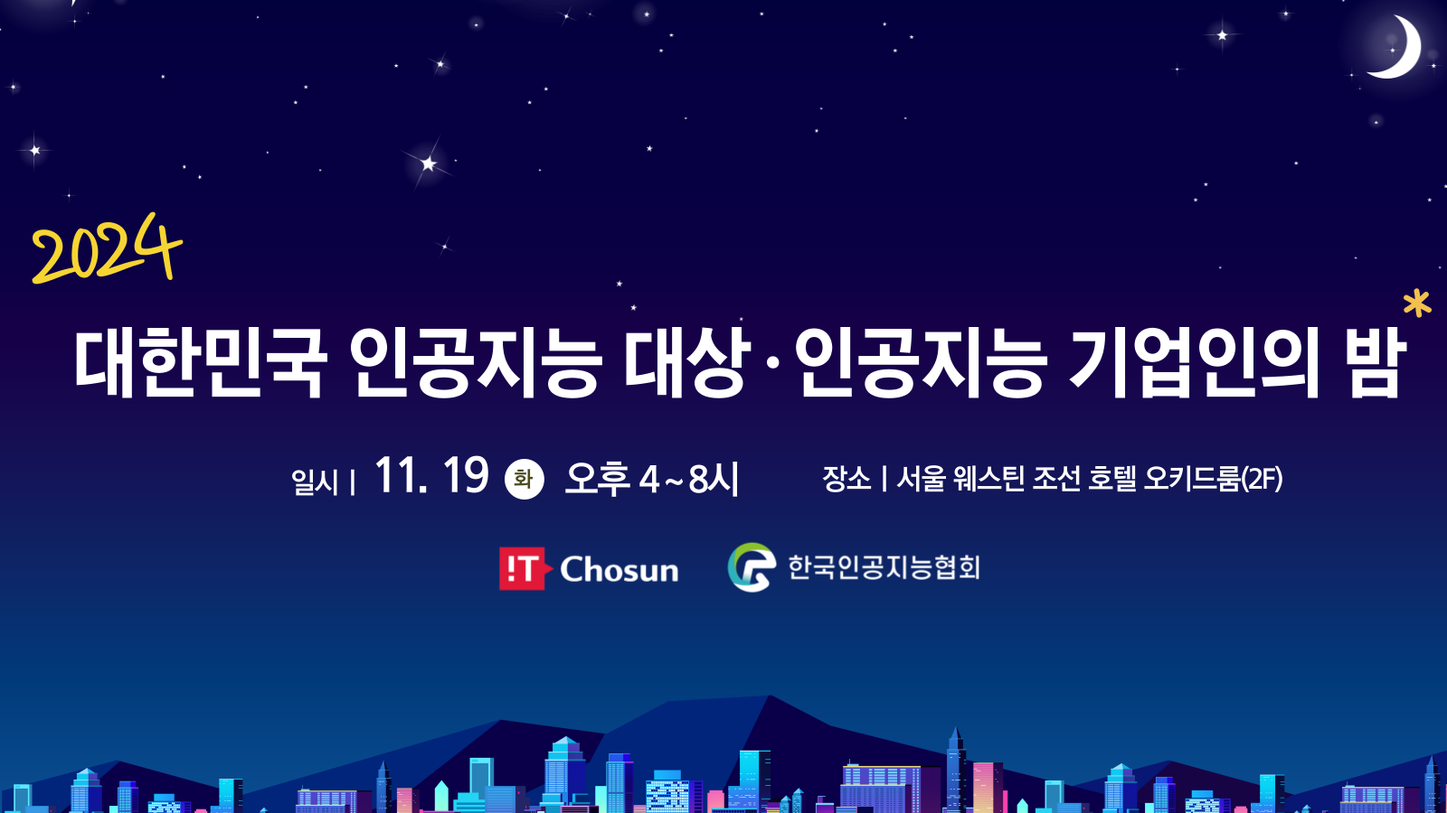
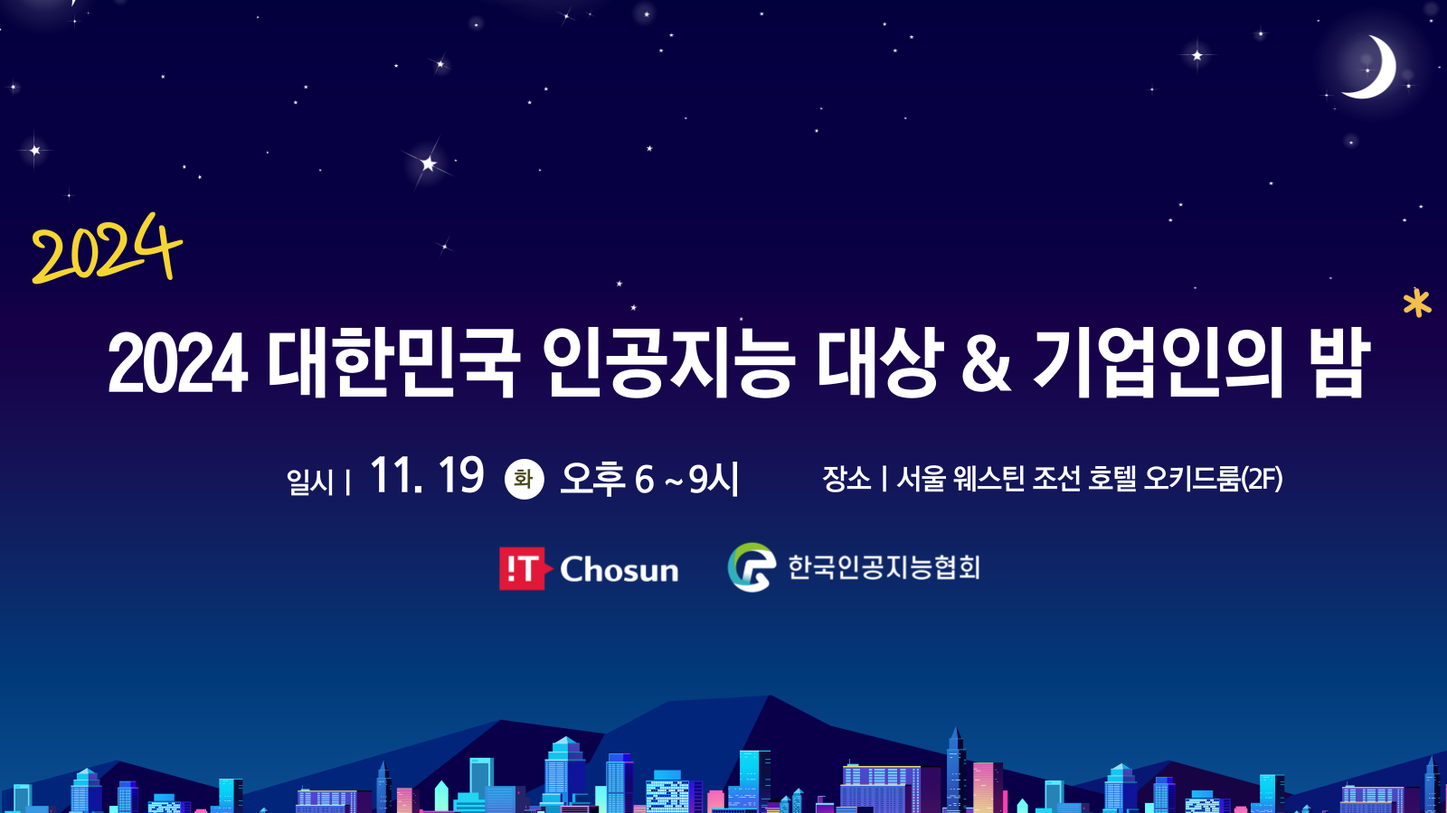
명칭통일

diff --git a/contact.html b/contact.html
@@ -3,17 +3,19 @@
 
 <head>
     <meta charset="UTF-8">
-    <meta name="description" content="2024 대한민국 인공지능 대상 및 인공지능 기업인의 밤 행사 안내">
+    <meta name="description" content="대한민국 인공지능대상은 2019년 처음 시작되어, AI 분야에서 뛰어난 성과를 이룬 기업, 학교, 기관, 지방자치단체를 선정해 시상해왔습니다.">
     <meta http-equiv="X-UA-Compatible" content="IE=edge">
     <meta name="viewport" content="width=device-width, initial-scale=1, shrink-to-fit=no">
     <link rel="preconnect" href="https://fonts.googleapis.com">
     <link rel="preconnect" href="https://fonts.gstatic.com" crossorigin>
-    <link href="https://fonts.googleapis.com/css2?family=Do+Hyeon&family=Gowun+Dodum&family=Nanum+Gothic&family=Nanum+Gothic+Coding&family=Noto+Sans+KR:wght@100..900&display=swap" rel="stylesheet">
+    <link
+        href="https://fonts.googleapis.com/css2?family=Do+Hyeon&family=Gowun+Dodum&family=Nanum+Gothic&family=Nanum+Gothic+Coding&family=Noto+Sans+KR:wght@100..900&display=swap"
+        rel="stylesheet">
     <!-- The above 4 meta tags *must* come first in the head; any other head content must come *after* these tags -->
 
     <!-- Title  -->
-    <title>대한민국 인공지능 대상·인공지능 기업인의 밤</title>
-    <meta property="og:title" content="대한민국 인공지능 대상·인공지능 기업인의 밤" />
+    <title>2024 대한민국 인공지능대상 & 기업인의 밤</title>
+    <meta property="og:title" content="2024 대한민국 인공지능대상 & 기업인의 밤" />
     <meta property="og:type" content="대한민국 인공지능" />
     <meta property="og:image" content="https://github.com/nightAI2024/nightAI2024/blob/main/ogimage.png?raw=true" />
 
@@ -57,10 +59,10 @@
                 <div class="row h-100 align-items-center">
                     <div class="col-12" style="display: flex; flex-direction: row-reverse;">
                         <div class="main-menu">
-                            <nav class="navbar navbar-expand-lg" >
+                            <nav class="navbar navbar-expand-lg">
                                 <button class="navbar-toggler" type="button" data-toggle="collapse"
-                                        data-target="#gazetteMenu" aria-controls="gazetteMenu" aria-expanded="false"
-                                        aria-label="Toggle navigation">Menu</button>
+                                    data-target="#gazetteMenu" aria-controls="gazetteMenu" aria-expanded="false"
+                                    aria-label="Toggle navigation">Menu</button>
                                 <div class="collapse navbar-collapse" id="gazetteMenu">
                                     <ul class="navbar-nav mr-auto">
                                         <li class="nav-item" style="margin-right: 15px;">
@@ -119,26 +121,28 @@
                             <div class="contact-address-info mb-50">
                                 <!-- * 카카오맵 - 지도퍼가기 -->
                                 <!-- 1. 지도 노드 -->
-                                <div id="daumRoughmapContainer1724131877990" class="root_daum_roughmap root_daum_roughmap_landing"></div>
+                                <div id="daumRoughmapContainer1724131877990"
+                                    class="root_daum_roughmap root_daum_roughmap_landing"></div>
 
                                 <!--
                                     2. 설치 스크립트
                                     * 지도 퍼가기 서비스를 2개 이상 넣을 경우, 설치 스크립트는 하나만 삽입합니다.
                                 -->
-                                <script charset="UTF-8" class="daum_roughmap_loader_script" src="https://ssl.daumcdn.net/dmaps/map_js_init/roughmapLoader.js"></script>
+                                <script charset="UTF-8" class="daum_roughmap_loader_script"
+                                    src="https://ssl.daumcdn.net/dmaps/map_js_init/roughmapLoader.js"></script>
 
                                 <!-- 3. 실행 스크립트 -->
                                 <script charset="UTF-8">
                                     new daum.roughmap.Lander({
-                                        "timestamp" : "1724131877990",
-                                        "key" : "2ke6s",
-                                        "mapWidth" : "1100",
-                                        "mapHeight" : "600"
+                                        "timestamp": "1724131877990",
+                                        "key": "2ke6s",
+                                        "mapWidth": "1100",
+                                        "mapHeight": "600"
                                     }).render();
                                 </script>
                                 <p>▪ Address. 서울특별시 중구 세종대로135 코리아나호텔 9층 912호
 
-                                    <br> ▪ Tel. 070-4285-0546  <br> ▪ Fax. 070-4285-0547 <br>
+                                    <br> ▪ Tel. 070-4285-0546 <br> ▪ Fax. 070-4285-0547 <br>
                                     ▪ E-mail. eventit@chosunbiz.com
                                 </p>
                             </div>
@@ -150,16 +154,35 @@
                     <div class="col-12 col-md-12">
                         <div class="gazette-heading">
                             <h4 class="font-bold">인공지능 기업인의 밤</h4>
-                            <div style="font:normal normal 400 12px/normal dotum, sans-serif; width:1100px; height:632px; color:#333; position:relative"><div style="height: 600px;"><a href="https://map.kakao.com/?urlX=486970.625&amp;urlY=1124571.25&amp;name=%EC%84%9C%EC%9A%B8%ED%8A%B9%EB%B3%84%EC%8B%9C%20%EB%A7%88%ED%8F%AC%EA%B5%AC%20%EB%B0%B1%EB%B2%94%EB%A1%9C%2088&amp;map_type=TYPE_MAP&amp;from=roughmap" target="_blank"><img class="map" src="http://t1.daumcdn.net/roughmap/imgmap/3ff044178f4f2151baf7016fc0c21d380e2933461b4f13ea02f6452759ebdadb" width="1098px" height="598px" style="border:1px solid #ccc;"></a></div><div style="overflow: hidden; padding: 7px 11px; border: 1px solid rgba(0, 0, 0, 0.1); border-radius: 0px 0px 2px 2px; background-color: rgb(249, 249, 249);"><a href="https://map.kakao.com" target="_blank" style="float: left;"><img src="//t1.daumcdn.net/localimg/localimages/07/2018/pc/common/logo_kakaomap.png" width="72" height="16" alt="카카오맵" style="display:block;width:72px;height:16px"></a><div style="float: right; position: relative; top: 1px; font-size: 11px;"><a target="_blank" href="https://map.kakao.com/?from=roughmap&amp;eName=%EC%84%9C%EC%9A%B8%ED%8A%B9%EB%B3%84%EC%8B%9C%20%EB%A7%88%ED%8F%AC%EA%B5%AC%20%EB%B0%B1%EB%B2%94%EB%A1%9C%2088&amp;eX=486970.625&amp;eY=1124571.25" style="float:left;height:15px;padding-top:1px;line-height:15px;color:#000;text-decoration: none;">길찾기</a></div></div></div>
-                                <p>▪ Address. 서울특별시 마포구 백범로 88 (대흥동) 경총회관 3층
-
-                                    <br> ▪ Tel. 02-713-4800  <br> ▪ Fax. 02-6971-8901<br>
-                                    ▪ E-mail. info@koraia.org
-                                </p>
+                            <div
+                                style="font:normal normal 400 12px/normal dotum, sans-serif; width:1100px; height:632px; color:#333; position:relative">
+                                <div style="height: 600px;"><a
+                                        href="https://map.kakao.com/?urlX=486970.625&amp;urlY=1124571.25&amp;name=%EC%84%9C%EC%9A%B8%ED%8A%B9%EB%B3%84%EC%8B%9C%20%EB%A7%88%ED%8F%AC%EA%B5%AC%20%EB%B0%B1%EB%B2%94%EB%A1%9C%2088&amp;map_type=TYPE_MAP&amp;from=roughmap"
+                                        target="_blank"><img class="map"
+                                            src="http://t1.daumcdn.net/roughmap/imgmap/3ff044178f4f2151baf7016fc0c21d380e2933461b4f13ea02f6452759ebdadb"
+                                            width="1098px" height="598px" style="border:1px solid #ccc;"></a></div>
+                                <div
+                                    style="overflow: hidden; padding: 7px 11px; border: 1px solid rgba(0, 0, 0, 0.1); border-radius: 0px 0px 2px 2px; background-color: rgb(249, 249, 249);">
+                                    <a href="https://map.kakao.com" target="_blank" style="float: left;"><img
+                                            src="//t1.daumcdn.net/localimg/localimages/07/2018/pc/common/logo_kakaomap.png"
+                                            width="72" height="16" alt="카카오맵"
+                                            style="display:block;width:72px;height:16px"></a>
+                                    <div style="float: right; position: relative; top: 1px; font-size: 11px;"><a
+                                            target="_blank"
+                                            href="https://map.kakao.com/?from=roughmap&amp;eName=%EC%84%9C%EC%9A%B8%ED%8A%B9%EB%B3%84%EC%8B%9C%20%EB%A7%88%ED%8F%AC%EA%B5%AC%20%EB%B0%B1%EB%B2%94%EB%A1%9C%2088&amp;eX=486970.625&amp;eY=1124571.25"
+                                            style="float:left;height:15px;padding-top:1px;line-height:15px;color:#000;text-decoration: none;">길찾기</a>
+                                    </div>
+                                </div>
                             </div>
+                            <p>▪ Address. 서울특별시 마포구 백범로 88 (대흥동) 경총회관 3층
+
+                                <br> ▪ Tel. 02-713-4800 <br> ▪ Fax. 02-6971-8901<br>
+                                ▪ E-mail. info@koraia.org
+                            </p>
                         </div>
                     </div>
                 </div>
+            </div>
             </div>
         </section>
     </section>
@@ -176,7 +199,7 @@
                             <div class="footer-widget-title">
                                 <h4 class="font-pt">대한민국 인공지능대상 · 인공지능 기업인의 밤</h4>
                             </div>
-                            <ul class="footer-widget-menu" >
+                            <ul class="footer-widget-menu">
                                 <li><a href="Introduce.html">소개</a></li>
                                 <li><a href="Guidelines.html">참가안내</a></li>
                                 <li><a href="Prize.html">수상혜택</a></li>
@@ -202,8 +225,8 @@
                             <p><!-- Link back to Colorlib can't be removed. Template is licensed under CC BY 3.0. -->
                                 Copyright &copy;
                                 <script>document.write(new Date().getFullYear());</script> All rights reserved <br><a
-                                        href="#" target="_blank">대한민국 인공지능대상 운영사무국</a> & <a
-                                        href="https://koraia.org" target="_blank">(사)한국인공지능협회</a>
+                                    href="#" target="_blank">대한민국 인공지능대상 운영사무국</a> & <a href="https://koraia.org"
+                                    target="_blank">(사)한국인공지능협회</a>
                             </p>
                         </div>
                     </div>
@@ -228,7 +251,7 @@
     <script async src="https://www.googletagmanager.com/gtag/js?id=G-SQBSQEY89L"></script>
     <script>
         window.dataLayer = window.dataLayer || [];
-        function gtag(){dataLayer.push(arguments);}
+        function gtag() { dataLayer.push(arguments); }
         gtag('js', new Date());
 
         gtag('config', 'G-SQBSQEY89L');

diff --git a/Introduce.html b/Introduce.html
@@ -3,7 +3,7 @@
 
 <head>
     <meta charset="UTF-8">
-    <meta name="description" content="2024 대한민국 인공지능 대상 및 인공지능 기업인의 밤 행사 안내">
+    <meta name="description" content="대한민국 인공지능대상은 2019년 처음 시작되어, AI 분야에서 뛰어난 성과를 이룬 기업, 학교, 기관, 지방자치단체를 선정해 시상해왔습니다.">
     <meta http-equiv="X-UA-Compatible" content="IE=edge">
     <meta name="viewport" content="width=device-width, initial-scale=1, shrink-to-fit=no">
     <link rel="preconnect" href="https://fonts.googleapis.com">
@@ -15,8 +15,8 @@
 
 
     <!-- Title  -->
-    <title>대한민국 인공지능 대상·인공지능 기업인의 밤</title>
-    <meta property="og:title" content="대한민국 인공지능 대상·인공지능 기업인의 밤" />
+    <title>2024 대한민국 인공지능대상 & 기업인의 밤</title>
+    <meta property="og:title" content="2024 대한민국 인공지능대상 & 기업인의 밤" />
     <meta property="og:type" content="대한민국 인공지능" />
     <meta property="og:image" content="https://github.com/nightAI2024/nightAI2024/blob/main/ogimage.png?raw=true" />
 
@@ -104,7 +104,7 @@
                         <div class="single-post-title-content">
                             <!-- Post Tag -->
                             <div class="gazette-post-tag">
-                                <a href="#" style="background-color: #7c1ea2">대한민국 인공지능 대상 · 인공지능 기업인의 밤</a>
+                                <a href="#" style="background-color: #7c1ea2">2024 대한민국 인공지능대상 & 기업인의 밤</a>
                             </div>
                             <h2 class="font-pt">소개</h2>
                             <p>　</p>
@@ -146,8 +146,8 @@
                             </div>
                             <h2 class="font-pt">소개</h2>
                             <br>
-                            <p>조선미디어그룹의 테크전문 매체 IT조선이 <2024 대한민국 인공지능 대상 · 인공지능 기업인의 밤>을 개최합니다.</p>
-                            <p>인공지능(AI) 보급, 확산 및 진흥을 위해 열리는 <2024 대한민국 인공지능 대상 · 인공지능 기업인의 밤>에는 ‘과학기술정보통신부 장관상’,
+                            <p>조선미디어그룹의 테크전문 매체 IT조선이 <2024 대한민국 인공지능대상 & 기업인의 밤>을 개최합니다.</p>
+                            <p>인공지능(AI) 보급, 확산 및 진흥을 위해 열리는 <2024 대한민국 인공지능대상 & 기업인의 밤>에는 ‘과학기술정보통신부 장관상’,
                                     ‘산업통상자원부 장관상’, ‘중소벤처기업부 장관상’
                                     ‘한국지능정보사회진흥 원장상’, ‘정보통신산업진흥원 원장상’, ‘정보통신기획평가원 원장상’을 각 기관과 함께 선정, 시상 합니다.
 
@@ -159,7 +159,7 @@
 
                             </p>
                             <p>
-                                <2024 대한민국 인공지능 대상 · 인공지능 기업인의 밤>은 전 세계 AI 시장 및 기술 동향 조사를 바탕으로 AI 전문가 심사위원단이 수상자를 선정합니다.
+                                <2024 대한민국 인공지능대상 & 기업인의 밤>은 전 세계 AI 시장 및 기술 동향 조사를 바탕으로 AI 전문가 심사위원단이 수상자를 선정합니다.
 
                             </p>
 
@@ -196,7 +196,7 @@
                     <div class="col-12">
                         <div class="single-footer-widget">
                             <div class="footer-widget-title">
-                                <h4 class="font-pt">대한민국 인공지능대상 · 인공지능 기업인의 밤</h4>
+                                <h4 class="font-pt">2024 대한민국 인공지능대상 & 기업인의 밤</h4>
                             </div>
                             <ul class="footer-widget-menu">
                                 <li><a href="Introduce.html">소개</a></li>

diff --git a/index.html b/index.html
@@ -3,7 +3,7 @@
 
 <head>
     <meta charset="UTF-8">
-    <meta name="description" content="2024 대한민국 인공지능 대상 및 인공지능 기업인의 밤 행사 안내">
+    <meta name="description" content="대한민국 인공지능대상은 2019년 처음 시작되어, AI 분야에서 뛰어난 성과를 이룬 기업, 학교, 기관, 지방자치단체를 선정해 시상해왔습니다.">
     <meta http-equiv="X-UA-Compatible" content="IE=edge">
     <meta name="viewport" content="width=device-width, initial-scale=1, shrink-to-fit=no">
     <link rel="preconnect" href="https://fonts.googleapis.com">
@@ -14,9 +14,9 @@
     <!-- The above 4 meta tags *must* come first in the head; any other head content must come *after* these tags -->
 
     <!-- Title  -->
-    <title>대한민국 인공지능 대상·인공지능 기업인의 밤</title>
-    <meta property="og:title" content="대한민국 인공지능 대상·인공지능 기업인의 밤" />
-    <meta property="og:type" content="대한민국 인공지능" />
+    <title>2024 대한민국 인공지능 대상 & 기업인의 밤</title>
+    <meta property="og:title" content="2024 대한민국 인공지능 대상 & 기업인의 밤" />
+    <meta property="og:type" content="2024 대한민국 인공지능 대상 & 기업인의 밤" />
     <meta property="og:image" content="https://github.com/nightAI2024/nightAI2024/blob/main/ogimage.png?raw=true" />
 
     <!-- Favicon  -->
@@ -175,14 +175,14 @@
 
 
     <div class="container my-5">
-        <h1>제 6회, 2024 대한민국 인공지능 대상 · 인공지능 기업인의 밤</h1><br>
-        <div class="card p-4 mb-4" style="background-color: rgba(224,223,223,0.15)">
-            <p class="mb-0" style="font-size: 1.2em;">
+        <h1>제 6회, 2024 대한민국 인공지능대상 & 기업인의 밤</h1><br>
+        <div class="card p-4 mb-4" style="background-color: rgba(224, 223, 223, 0.066)">
+            <p class="mb-0" style="font-size: 1.25em;">
                 ‘인공지능(AI) 기술의 급속한 발전은 산업 전반에 걸쳐 혁신을 이끌며, 새로운 시대를 열고 있습니다.’<br><br>
                 이제 AI는 특정 전문가들만의 전유물이 아니라, 누구나 자신의 분야에서 활용할 수 있는 필수 기술로 자리매김했습니다. <br>기존 산업의 혁신과 더불어 AI를 통한 미래의 설계는 더욱
                 가속화되고 있으며, 그 영향력은 더욱 커져가고 있습니다.
                 <br><br>
-                이러한 흐름에 맞춰 조선미디어그룹의 테크전문 미디어 IT조선은 대한민국이 AI 강국으로 도약하는 데 기여하기 위해 '2024 대한민국 인공지능 대상 · 인공지능 기업인의 밤'을
+                이러한 흐름에 맞춰 조선미디어그룹의 테크전문 미디어 IT조선은 대한민국이 AI 강국으로 도약하는 데 기여하기 위해 '2024 대한민국 인공지능대상 & 기업인의 밤'을
                 개최합니다. 올해는 특히 한국인공지능협회와 함께 공동으로 주최하여, 인공지능 분야를 대표하는 기관 및 기업들이 한 자리에 모여 소통하는 뜻깊은 자리가 될 수 있도록 인공지능 기업인의
                 밤으로 확대 진행합니다.<br>
                 <br>
@@ -397,7 +397,7 @@
                     <div class="col-12">
                         <div class="single-footer-widget">
                             <div class="footer-widget-title">
-                                <h4 class="font-pt">대한민국 인공지능대상 · 인공지능 기업인의 밤</h4>
+                                <h4 class="font-pt">2024 대한민국 인공지능대상 & 기업인의 밤</h4>
                             </div>
                             <ul class="footer-widget-menu">
                                 <li><a href="Introduce.html">소개</a></li>

diff --git a/history.html b/history.html
@@ -3,7 +3,7 @@
 
 <head>
     <meta charset="UTF-8">
-    <meta name="description" content="2024 대한민국 인공지능 대상 및 인공지능 기업인의 밤 행사 안내">
+    <meta name="description" content="대한민국 인공지능대상은 2019년 처음 시작되어, AI 분야에서 뛰어난 성과를 이룬 기업, 학교, 기관, 지방자치단체를 선정해 시상해왔습니다.">
     <meta http-equiv="X-UA-Compatible" content="IE=edge">
     <meta name="viewport" content="width=device-width, initial-scale=1, shrink-to-fit=no">
     <link rel="preconnect" href="https://fonts.googleapis.com">
@@ -15,8 +15,8 @@
 
 
     <!-- Title  -->
-    <title>대한민국 인공지능 대상·인공지능 기업인의 밤</title>
-    <meta property="og:title" content="대한민국 인공지능 대상·인공지능 기업인의 밤" />
+    <title>2024 대한민국 인공지능대상 & 기업인의 밤</title>
+    <meta property="og:title" content="2024 대한민국 인공지능대상 & 기업인의 밤" />
     <meta property="og:type" content="대한민국 인공지능" />
     <meta property="og:image" content="https://github.com/nightAI2024/nightAI2024/blob/main/ogimage.png?raw=true" />
 
@@ -158,7 +158,8 @@
                                     <tr></tr>
                                     <td style="border: 1px solid black; padding: 8px; text-align: center;" rowspan="2">
                                         <br><img src="img/core-img/prize24_2.jpg"
-                                            style="width: 147px; height: 85px;"><br><br>▪ 정보통신산업진흥원 원장상<br>　</td>
+                                            style="width: 147px; height: 85px;"><br><br>▪ 정보통신산업진흥원 원장상<br>　
+                                    </td>
                                     <td style="border: 1px solid black; padding: 8px; text-align: center;">메가존클라우드
                                     </td>
                                     </tr>
@@ -525,7 +526,7 @@
                     <div class="col-12">
                         <div class="single-footer-widget">
                             <div class="footer-widget-title">
-                                <h4 class="font-pt">대한민국 인공지능대상 · 인공지능 기업인의 밤</h4>
+                                <h4 class="font-pt">2024 대한민국 인공지능대상 & 기업인의 밤</h4>
                             </div>
                             <ul class="footer-widget-menu">
                                 <li><a href="Introduce.html">소개</a></li>

diff --git a/Guidelines.html b/Guidelines.html
@@ -3,7 +3,7 @@
 
 <head>
     <meta charset="UTF-8">
-    <meta name="description" content="2024 대한민국 인공지능 대상 및 인공지능 기업인의 밤 행사 안내">
+    <meta name="description" content="대한민국 인공지능대상은 2019년 처음 시작되어, AI 분야에서 뛰어난 성과를 이룬 기업, 학교, 기관, 지방자치단체를 선정해 시상해왔습니다.">
     <meta http-equiv="X-UA-Compatible" content="IE=edge">
     <meta name="viewport" content="width=device-width, initial-scale=1, shrink-to-fit=no">
     <link rel="preconnect" href="https://fonts.googleapis.com">
@@ -15,8 +15,8 @@
 
 
     <!-- Title  -->
-    <title>대한민국 인공지능 대상·인공지능 기업인의 밤</title>
-    <meta property="og:title" content="대한민국 인공지능 대상·인공지능 기업인의 밤" />
+    <title>2024 대한민국 인공지능대상 & 기업인의 밤</title>
+    <meta property="og:title" content="2024 대한민국 인공지능대상 & 기업인의 밤" />
     <meta property="og:type" content="대한민국 인공지능" />
     <meta property="og:image" content="https://github.com/nightAI2024/nightAI2024/blob/main/ogimage.png?raw=true" />
 
@@ -104,7 +104,7 @@
                         <div class="single-post-title-content">
                             <!-- Post Tag -->
                             <div class="gazette-post-tag">
-                                <a href="#" style="background-color: #7c1ea2">대한민국 인공지능 대상 · 인공지능 기업인의 밤</a>
+                                <a href="#" style="background-color: #7c1ea2">2024 대한민국 인공지능대상 & 기업인의 밤</a>
                             </div>
                             <h2 class="font-pt">참가안내</h2>
                             <p>　</p>
@@ -446,7 +446,7 @@
                     <div class="col-12">
                         <div class="single-footer-widget">
                             <div class="footer-widget-title">
-                                <h4 class="font-pt">대한민국 인공지능대상 · 인공지능 기업인의 밤</h4>
+                                <h4 class="font-pt">2024 대한민국 인공지능대상 & 기업인의 밤</h4>
                             </div>
                             <ul class="footer-widget-menu">
                                 <li><a href="Introduce.html">소개</a></li>

diff --git a/Prize.html b/Prize.html
@@ -3,7 +3,7 @@
 
 <head>
     <meta charset="UTF-8">
-    <meta name="description" content="2024 대한민국 인공지능 대상 및 인공지능 기업인의 밤 행사 안내">
+    <meta name="description" content="대한민국 인공지능대상은 2019년 처음 시작되어, AI 분야에서 뛰어난 성과를 이룬 기업, 학교, 기관, 지방자치단체를 선정해 시상해왔습니다.">
     <meta http-equiv="X-UA-Compatible" content="IE=edge">
     <meta name="viewport" content="width=device-width, initial-scale=1, shrink-to-fit=no">
     <link rel="preconnect" href="https://fonts.googleapis.com">
@@ -15,8 +15,8 @@
 
 
     <!-- Title  -->
-    <title>대한민국 인공지능 대상·인공지능 기업인의 밤</title>
-    <meta property="og:title" content="대한민국 인공지능 대상·인공지능 기업인의 밤" />
+    <title>2024 대한민국 인공지능대상 & 기업인의 밤</title>
+    <meta property="og:title" content="2024 대한민국 인공지능대상 & 기업인의 밤" />
     <meta property="og:type" content="대한민국 인공지능" />
     <meta property="og:image" content="https://github.com/nightAI2024/nightAI2024/blob/main/ogimage.png?raw=true" />
 
@@ -104,7 +104,7 @@
                         <div class="single-post-title-content">
                             <!-- Post Tag -->
                             <div class="gazette-post-tag">
-                                <a href="#" style="background-color: #7c1ea2">대한민국 인공지능 대상 · 인공지능 기업인의 밤</a>
+                                <a href="#" style="background-color: #7c1ea2">2024 대한민국 인공지능대상 & 기업인의 밤</a>
                             </div>
                             <h2 class="font-pt">수상혜택</h2>
                             <p>　</p>
@@ -199,7 +199,7 @@
                     <div class="col-12">
                         <div class="single-footer-widget">
                             <div class="footer-widget-title">
-                                <h4 class="font-pt">대한민국 인공지능대상 · 인공지능 기업인의 밤</h4>
+                                <h4 class="font-pt">2024 대한민국 인공지능대상 & 기업인의 밤</h4>
                             </div>
                             <ul class="footer-widget-menu">
                                 <li><a href="Introduce.html">소개</a></li>
